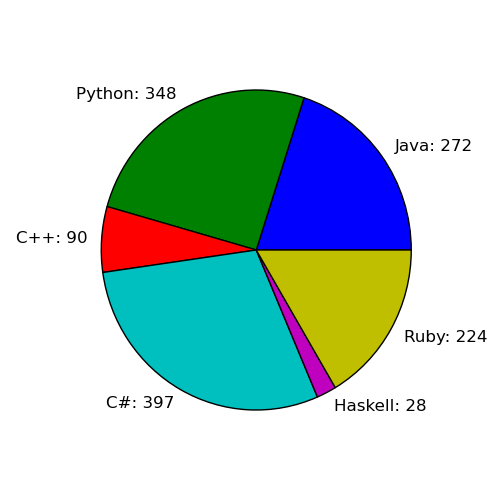
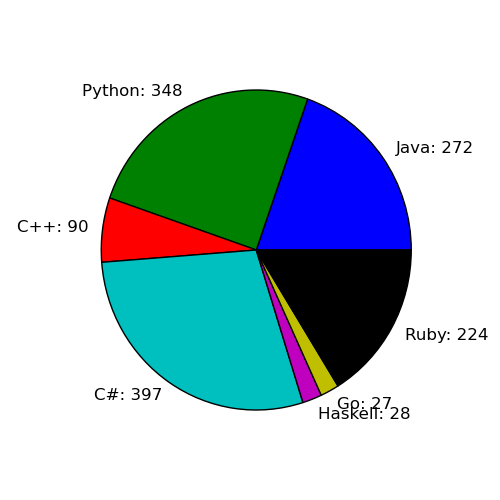
Added go to tool

diff --git a/Tools/code_percentage.py b/Tools/code_percentage.py
@@ -11,7 +11,7 @@ from os import popen
 figure(2, figsize=(5,5))
 
 lang_to_ext = {'Python': '.py', 'Haskell': '.hs', 'C++': '.cpp',
-               'C#': '.cs', 'Ruby': '.rb', 'Java': '.java'}
+        'C#': '.cs', 'Ruby': '.rb', 'Java': '.java', 'Go': '.go' }
 
 languages = []
 lines = []
